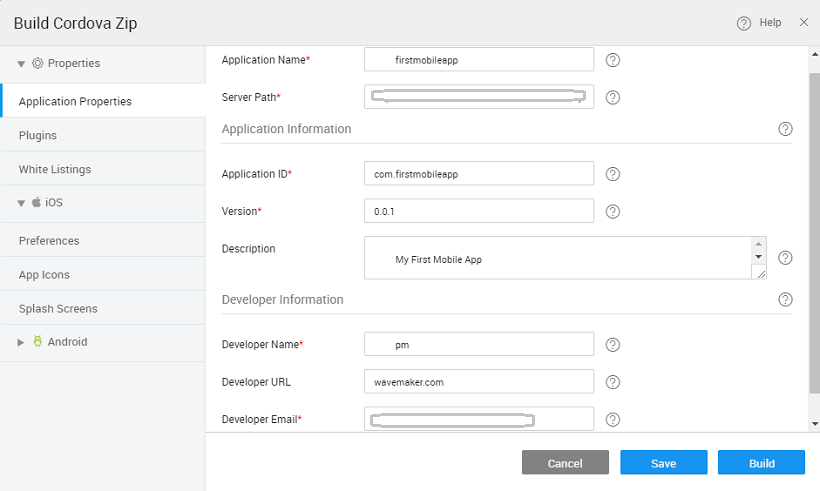
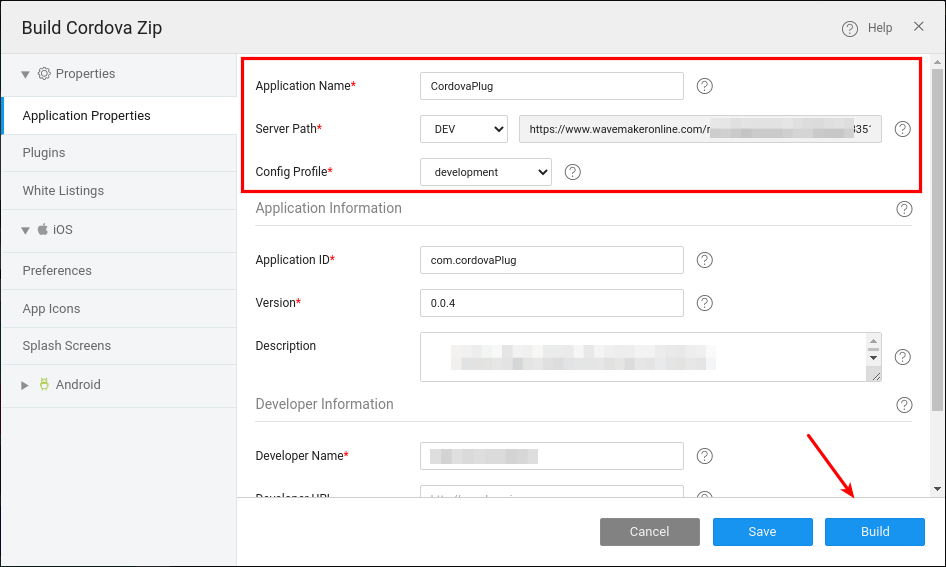
Updated as per the review

diff --git a/learn/hybrid-mobile/export-cordova-zip.md b/learn/hybrid-mobile/export-cordova-zip.md
@@ -4,8 +4,14 @@ id: ""
 ---
 ---
 
-A Cordova zip will be used to create a mobile application. WaveMaker allows you to export a Cordova zip from a *mobile project* so that
-you can use it to generate a *mobile application*.
+A Cordova zip in general will be used to create a platform specific installer.
+WaveMaker supports cordova feature to generate mobile native installers for Android & iOS devices.
+
+The Cordova zip is packed with all the UI specific files and images which will be needed to display the User Interface.
+These UI files in the cordova zip will be pointing to a *backend server* which contains the core business logic.
+This means, that the installers generated using Cordova have little to no business logic in it, and the whole business logic is in the backend server.
+
+WaveMaker Studio allows you to export a cordova zip from any *mobile project*.
 
 Following are the two approaches which can be followed to create a Cordova zip.
 
@@ -22,10 +28,20 @@ Following are the two approaches which can be followed to create a Cordova zip.
 
 [![](/learn/assets/Build_Cordova_Zip.png)](/learn/assets/Build_Cordova_Zip.png) 
 
-3. Provide all necessary configuration and click **Build**. A job gets posted to prepare a Cordova zip.
-This job is listed under the **Jobs** menu.
+| Configuration Name | Description |
+|---|---|
+|Application Name | The name of the application |
+|Server Path | The backend server url. *Dev* is used to prepopulate the application preview url. *Custom* is used to add the url of the application which is hosted somewhere else |
+|Config Profile | The build profile to use |
+    
+3. Make necessary changes to the configurations and click on **build** button. This will start a job as shown in the below image.
 
-4. When the job gets completed, a link will be provided in the **Job** info to download the Cordova zip.
+[![](/learn/assets/cordova_jobs_processing.png)](/learn/assets/cordova_jobs_processing.png)
+
+
+4. When the job gets completed, you can download the Cordova zip by clicking on the **download** icon as shown in the below image.
+
+[![](/learn/assets/cordova_jobs_completed.png)](/learn/assets/cordova_jobs_completed.png)
 
 
 ## Export Cordova using Maven Command
@@ -34,13 +50,26 @@ This job is listed under the **Jobs** menu.
 This an alternative of the above approach. This is useful if you are working outside WaveMaker Studio.
 :::
 
-1. Export and extract the WaveMaker project zip if you don't have it already.
+1. Get the WaveMaker project into your machine, if you don't have it already by following any of the below methods.
 
-2. Execute the command `mvn clean package -Dmobile.serverUrl="<url>"`. Here, **`<url>`** is the application server URL.
-The mobile application will generated from this Cordova will make backend calls to the URL specified. (*Refer the below image*)
+    1. Export the WaveMaker project zip and extract the zip.
+    2. You can also execute `git clone <repo_url>` command to get the project from a git repository which is commonly used across the development team.
 
-![maven command to generate cordova](/learn/assets/cordova_maven_command.png)
+2. Execute the below command
 
-3. After executing the above command, you can find the Cordova zip in the target folder. (*Refer the below image*)
+    >`mvn clean package -Dmobile.serverUrl="<url>"`
 
-![maven command cordova out file](/learn/assets/cordova_maven_output.png)
+    Here, **`<url>`** is the application server url. The mobile installer will be generated from this Cordova will make backend calls to the url specified.
+    (*Refer the below image*)
+    
+    Example : 
+    
+    ![maven command to generate cordova](/learn/assets/cordova_maven_command.png)
+
+3. After executing the above command, the Cordova zip can be found at 
+
+    > `<ProjectFolder>/target/<ProjectName>-cordova.zip`. 
+
+    Example : 
+    
+    ![maven command cordova out file](/learn/assets/cordova_maven_output.png)
